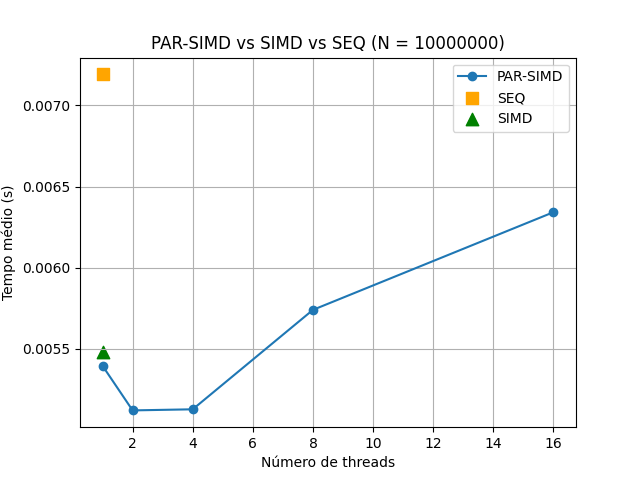
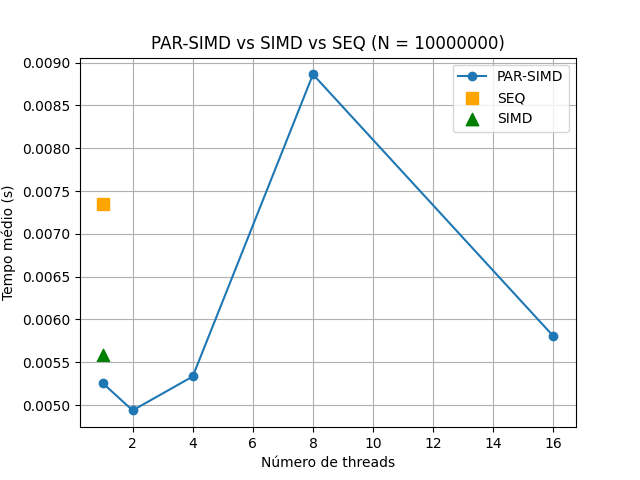
Relatório alterado

diff --git a/plot_tarefa_D.py b/plot_tarefa_D.py
@@ -1,19 +1,19 @@
 import pandas as pd
 import matplotlib.pyplot as plt
 
-# Arquivos CSV
+
 csv_ingenua = "data/tarefa_D_variante_ingenua.csv"
 csv_arrumada = "data/tarefa_D_variante_arrumada.csv"
 
-# Leitura dos arquivos CSV
+
 df_ingenua = pd.read_csv(csv_ingenua, sep=';')
 df_arrumada = pd.read_csv(csv_arrumada, sep=';')
 
-# Valores únicos de N e número de threads
+
 Ns = sorted(df_ingenua['N'].unique())
 threads_ordem = [1, 2, 4, 8, 16]
 
-# Ordenação das colunas 'threads'
+
 df_ingenua['threads'] = pd.Categorical(
     df_ingenua['threads'],
     categories=threads_ordem,
@@ -26,15 +26,15 @@ df_arrumada['threads'] = pd.Categorical(
     ordered=True
 )
 
-# Gerando gráficos para cada valor de N
+
 for N in Ns:
     sub_ingenua = df_ingenua[df_ingenua['N'] == N].sort_values('threads')
     sub_arrumada = df_arrumada[df_arrumada['N'] == N].sort_values('threads')
 
-    # Nome do arquivo de saída
+    
     file_name = "graficos/tarefa_D_N=" + str(N)
 
-    # Gerando o gráfico
+    
     plt.figure()
     plt.plot(sub_ingenua['threads'], sub_ingenua['media'], marker='o', label='Ingênua')
     plt.plot(sub_arrumada['threads'], sub_arrumada['media'], marker='o', label='Arrumada')
@@ -45,25 +45,21 @@ for N in Ns:
     plt.legend()
     plt.grid(True)
 
-    # Salvando o gráfico de cada N
+    
     plt.savefig(file_name)
     plt.close()
 
-    # Calculando a média do desvio padrão
+
     mean_std_ingenua = sub_ingenua['desvio_padrao'].mean()
     mean_std_arrumada = sub_arrumada['desvio_padrao'].mean()
 
-    # Imprimindo as médias do desvio padrão
+    
     print(f"N = {N}")
     print(f"  Média do desvio padrão (Ingênua):   {mean_std_ingenua:.6e}")
     print(f"  Média do desvio padrão (Arrumada):  {mean_std_arrumada:.6e}")
     print("-" * 50)
 
-# =========================
-# GRÁFICO FINAL (RESUMO)
-# =========================
 
-# Agrupando por número de threads (média sobre todos os Ns)
 final_ingenua = (
     df_ingenua
     .groupby('threads', observed=True)['media']
@@ -78,7 +74,7 @@ final_arrumada = (
     .reset_index()
 )
 
-# Gerando o gráfico final
+
 plt.figure()
 
 plt.plot(
@@ -101,12 +97,12 @@ plt.title("Resumo geral — Ingênua vs Arrumada (média sobre todos os N)")
 plt.legend()
 plt.grid(True)
 
-# Salvando o gráfico final em PNG
+
 plt.savefig(
     "graficos/tarefa_D_resumo_geral.png",
     dpi=300,
     bbox_inches="tight"
 )
 
-# Fechando a figura para liberar memória
+
 plt.close()

diff --git a/plot_tarefa_C.py b/plot_tarefa_C.py
@@ -51,7 +51,7 @@ for N in sorted(df_par['N'].unique()):
         label='PAR-SIMD'
     )
 
-    # Pontos SEQ e SIMD to colocando sobre thread=1 pq n exploram paralelismmo em thread 
+    # Pontos SEQ e SIMD to colocando sobre thread=1 pq não exploram paralelismmo em thread 
     plt.scatter(
         [1], [mean_seq],
         marker='s',

diff --git a/RELATORIO.md b/RELATORIO.md
@@ -1,6 +1,8 @@
 ## Relatório
 
 O hardware utilizado nos experimentos possui 4 núcleos e 8 threads.
+Foi habilitado export OMP_PROC_BIND=true e export OMP_PLACES=cores habilitando afinidade explícita de threads, fixando as threads OpenMP em núcleos físicos, reduzindo migração entre núcleos.
+
 
 ### Tarefa C - Vetorização com simd
 
@@ -8,6 +10,12 @@ Utiliza a diretiva #pragma omp simd. Essa diretiva permite a execução simultâ
 Referência: https://www.openmp.org/spec-html/5.0/openmpsu42.html
 
 A partir da analise do gráfico `graficos/tarefa_C_seq_vs_simd.png`, a implementação SIMD (que utiliza a diretiva #pragma omp simd para usar instruções vetoriais do processador, como AVX, conforme apresentado pelo professor em aula) é mais rápida do que a execução sequencial quando o N é grande.
+
+Nota-se, nos resultados de par-simd que, apesar de a plataforma experimental possuir 8 processadores lógicos, observa-se que o pior desempenho ocorre consistentemente para T = 8. Esse comportamento é explicado pelo fato de a máquina possuir apenas 4 núcleos físicos, sendo os demais núcleos lógicos providos por SMT (Simultaneous Multithreading). Para T ≤ 4, cada thread é mapeada para um núcleo físico distinto, explorando paralelismo real. Entretanto, em T = 8, duas threads passam a competir pelos mesmos recursos de cada núcleo físico, incluindo unidades vetoriais, registradores e níveis privados de cache. Como o kernel avaliado é intensivo em SIMD e apresenta baixo número de stalls, o uso de SMT não traz benefícios e resulta em contenção de recursos, degradando o desempenho.
+
+Curiosamente, ao aumentar o número de threads para T=16, observa-se uma melhora relativa em relação a T=8. Esse efeito não indica escalabilidade real, mas decorre de mudanças no escalonamento do sistema operacional e do runtime OpenMP, que podem favorecer uma melhor sobreposição de latências de memória e variações no mapeamento das threads aos núcleos físicos. Ainda assim, o desempenho para T=16 permanece inferior ou apenas marginalmente superior ao obtido com T=4, reforçando que o limite prático de escalabilidade para este tipo de kernel é determinado pelo número de núcleos físicos disponíveis.
+
+Este comportamento está diretamente relacionado com as diretivas habilitadas OMP_PROC_BIND=true e OMP_PLACES=cores.
 
 ### Tarefa D
 Utiliza dois casos: o primeiro é chamada de "ingênua", onde são declarados dois `omp parallel for`; O segundo, chamada de "arrumada", utiliza uma região `omp parallel` e dentro desta região, dois `omp parallel for`. O foco destas duas versões é avaliar o overhead de sincronização. Referência: https://www.openmp.org/spec-html/5.0/openmpse14.html

diff --git a/REPRODUTIBILIDADE.md b/REPRODUTIBILIDADE.md
@@ -1,11 +1,15 @@
 # Trabalho 1 – IPPD
 
+**Hardware utilizado: Intel Core I5 10ª geração, notebook alimentado à tomada, 4 cores físicos, 8 cores lógicos, 8 GB ram.**
+
 ## Versões utilizadas
 
-- **Linguagem C**: **gcc (GCC) 15.2.0**
+- **Linguagem C**: **gcc (GCC) 9.4.0**
 - **Python**: **Python 3.11+**
 
 > Recomenda-se o uso de gcc para compilação em C e Python 3.11 ou superior para evitar problemas de compatibilidade.
+
+flag -O3 do GCC usada para compilação (ver run.sh)
 
 ---
 
@@ -18,9 +22,6 @@ O projeto é dividido em duas partes principais: **C** (para as tarefas utilizan
 - **`*.c`**  
   Contém a implementação das funções principais em C.
 
-- **`*.h`**  
-  Arquivos de cabeçalho que declaram as funções e estruturas utilizadas nos arquivos `.c`.
-
 - **`Makefile`**  
   Responsável por automatizar a compilação do código C.
 
@@ -30,46 +31,28 @@ O projeto é dividido em duas partes principais: **C** (para as tarefas utilizan
 Leitura dos csvs e geração dos gráficos.
 
 ### Arquivos csv
-Localizados no diretório `data/`. Estes arquivos são criados de forma manual através dos resultados obtidos na saída dos códigos `C`.
+Localizados no diretório `data/`. Estes arquivos são criados de maneira automatizada após rodar os códigos em C.
 
 **tarefa_C_parallel_simd.csv**
+
+**tarefa_C_simd.csv**
 
 **tarefa_C_seq.csv**
 
 **tarefa_D_variante_arrumada.csv**
 
 **tarefa_D_variante_ingenua.csv**
----
+
+
 
 ## Como compilar e executar
+Basta rodar o comando ./run.sh em um ambiente Linux, o script já automatiza tudo, desde compilar os arquivos .c, rodar os executáveis, gerar os .csv e gerar os gráficos com o pyhton.
 
-### 1. Compilar o código em C
 
-No diretório raiz do projeto, execute:
+## Recursos necessários 
 
-```bash
-make
-```
-```bash
-./build/omp/tarefa_C_parallel_simd
-./build/omp/tarefa_C_simd
-```
-Válido para todos os códigos objeto em build
-
->Os resultados dos códigos C são impressos no terminal. Para facilitar, copiamos estas saídas e colamos em arquivos csv para serem gerados os gráficos a partir dos códigos Python. O caminho dos arquivos csv são passados diretamente através de variáveis String dentro dos arquivos Python.
----
-
-### 2. Executar o código em Python
-
-```bash
-python3 plot_tarefa_C.py
-python3 plot_tarefa_D.py
-
-```
-
-## Dependências
-
-- gcc 15.2.0
+- gcc 9.4.0 (versão utilizada)
+- OpenMP 4.5
 - Python 3.11+
 - Bibliotecas padrão da linguagem C
 - Bibliotecas padrão do Python (`matplotlib`, `pandas`.)

diff --git a/README.md b/README.md
@@ -1,4 +1,6 @@
 # Autores e funções
-Vitor Costa: Tarefas C e D.
-Eduardo Costa Geração dos gráficos e arquivos de relatório e reprodutibilidade.
+Vitor Costa: Tarefas C e D e automatização.
+Eduardo Costa: Geração dos gráficos e arquivos de relatório e reprodutibilidade.
 
+# Tarefas desenvolvidas
+Tarefas C e D.
